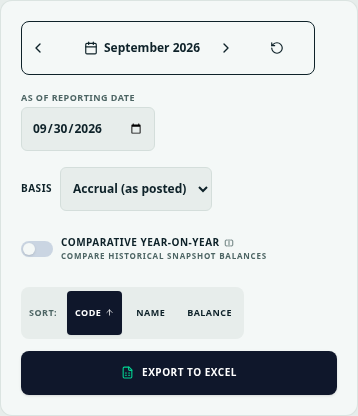
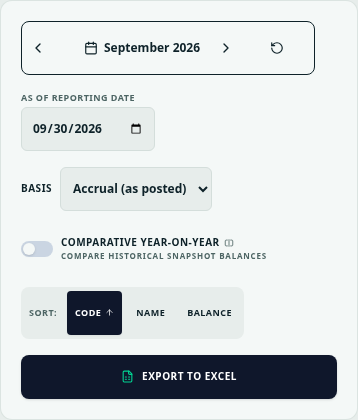
fix: AI #4 preserve report Tab order and full touch target sizes

diff --git a/e2e/report-header.spec.ts b/e2e/report-header.spec.ts
@@ -49,7 +49,8 @@ for (const width of [390, 1280])
             return rect.width &&
               (rect.left < frame.left ||
                 rect.right > frame.right + 1 ||
-                rect.height < 44)
+                rect.height < 44 ||
+                rect.width < 44)
               ? [
                   {
                     control:
@@ -92,6 +93,48 @@ for (const width of [390, 1280])
         });
         for (const contrast of contrasts)
           expect(contrast).toBeGreaterThanOrEqual(4.5);
+        // Traverse real Tab stops, including the native date input's internal segments.
+        const controls = header
+          .locator(
+            "button:not([disabled]), input:not([disabled]), select:not([disabled])",
+          )
+          .filter({ visible: true });
+        await controls.first().focus();
+        let previousBottom = 0;
+        for (let index = 0; index < (await controls.count()); index++) {
+          const control = controls.nth(index);
+          if (index) {
+            for (let step = 0; step < 8; step++) {
+              await page.keyboard.press("Tab");
+              if (
+                await control.evaluate(
+                  (element) => element === document.activeElement,
+                )
+              )
+                break;
+              expect(
+                await header.evaluate((element) =>
+                  element.contains(document.activeElement),
+                ),
+              ).toBe(true);
+            }
+            await expect(control).toBeFocused();
+          }
+          const bottom = await control.evaluate((element) => {
+            const target =
+              element instanceof HTMLInputElement && element.type === "checkbox"
+                ? element.closest("label")!
+                : element;
+            return (
+              target.getBoundingClientRect().bottom -
+              element
+                .closest('[data-testid="report-controls"]')!
+                .getBoundingClientRect().top
+            );
+          });
+          expect(bottom).toBeGreaterThanOrEqual(previousBottom - 10);
+          previousBottom = bottom;
+        }
         const a11y = await new AxeBuilder({ page })
           .include('[data-testid="report-controls"]')
           .withRules(["color-contrast"])

diff --git a/src/components/ledger/BalanceSheetReport.tsx b/src/components/ledger/BalanceSheetReport.tsx
@@ -68,9 +68,9 @@ export function BalanceSheetReport({ columnMode, setColumnMode, showPercent, set
       ) : null}
 
       {/* Date controls and configuration header */}
-      <div data-testid="report-controls" role="region" aria-label="Report filters" className="flex flex-wrap items-start justify-between p-5 bg-[var(--surface)] border border-[var(--line)]/80 rounded-xl shadow-3xs relative group gap-4">
+      <div data-testid="report-controls" role="region" aria-label="Report filters" className="flex flex-wrap items-end justify-between p-5 bg-[var(--surface)] border border-[var(--line)]/80 rounded-xl shadow-3xs relative group gap-4">
         <div className="absolute technical-grid inset-0 opacity-[0.015] pointer-events-none" />
-        <div className="flex flex-wrap items-end gap-4 relative z-10 flex-1 min-w-0">
+        <div className="contents">
           <MonthNavigator
             className="[&_button]:min-h-11 [&_button]:min-w-11 [&_button]:text-[var(--text)]"
             currentDate={asOfDate}
@@ -145,7 +145,7 @@ export function BalanceSheetReport({ columnMode, setColumnMode, showPercent, set
           )}
         </div>
 
-        <div className="flex flex-wrap items-center gap-3 min-w-0">
+        <div className="contents">
           <div className="flex flex-wrap items-center gap-1.5 bg-[var(--ink)] p-1 rounded-lg">
             <span className="text-[9px] font-bold text-[var(--muted)] uppercase tracking-wider px-1">Sort:</span>
             {(['code', 'name', 'balance'] as const).map(field => (
@@ -154,7 +154,7 @@ export function BalanceSheetReport({ columnMode, setColumnMode, showPercent, set
                 aria-pressed={sortBy === field}
                 onClick={() => toggleSort(field)}
                 className={cn(
-                  "min-h-11 px-2 py-1 text-[9px] font-bold uppercase tracking-wider rounded transition-colors flex items-center gap-1 cursor-pointer",
+                  "min-h-11 min-w-11 px-2 py-1 text-[9px] font-bold uppercase tracking-wider rounded transition-colors flex items-center gap-1 cursor-pointer",
                   sortBy === field ? "bg-slate-900 text-white shadow-xs" : "text-[var(--text)] hover:text-[var(--text)]"
                 )}
               >

diff --git a/src/components/ledger/ProfitAndLossView.tsx b/src/components/ledger/ProfitAndLossView.tsx
@@ -349,9 +349,9 @@ const ProfitAndLossView: React.FC<ProfitAndLossViewProps> = ({ startDate, endDat
       ) : null}
 
       {/* Date Range & Controls */}
-      <div data-testid="report-controls" role="region" aria-label="Report filters" className="flex flex-wrap items-start justify-between p-5 bg-[var(--surface)] border border-[var(--line)]/80 rounded-xl shadow-3xs relative group gap-4">
+      <div data-testid="report-controls" role="region" aria-label="Report filters" className="flex flex-wrap items-end justify-between p-5 bg-[var(--surface)] border border-[var(--line)]/80 rounded-xl shadow-3xs relative group gap-4">
         <div className="absolute technical-grid inset-0 opacity-[0.015] pointer-events-none" />
-        <div className="flex flex-wrap items-end gap-4 relative z-10 flex-1 min-w-0">
+        <div className="contents">
           <MonthNavigator 
             className="[&_button]:min-h-11 [&_button]:min-w-11 [&_button]:text-[var(--text)]"
             currentDate={dateRange.start} 

diff --git a/docs/verification/ai4-d45-report-controls.md b/docs/verification/ai4-d45-report-controls.md
@@ -51,3 +51,5 @@ image review are recorded in the PR. Vercel previews remain intentionally blocke
 by the owner to save limits; no deployment retry or success is claimed.
 
 CI reference capture: run 39163910254 passed, generated exactly the eight affected P&L/balance-sheet images, and all 40 visual reference cases passed. All eight candidate images were opened and inspected before acceptance: dates/Basis are readable, balance-sheet sorting is fully visible, and report figures remain visible. The temporary push trigger was removed; the final workflow matches main. Full final-PR gates remain pending at publication.
+
+Review follow-up: Sort buttons now have both 44px minimum width and height. Flattened wrapping containers preserve row-major visual/DOM order; the browser contract traverses real Tab stops (including native date segments) and rejects a jump back up a row. All eight cases pass locally; refreshed references and corrected-head full gates pending.
